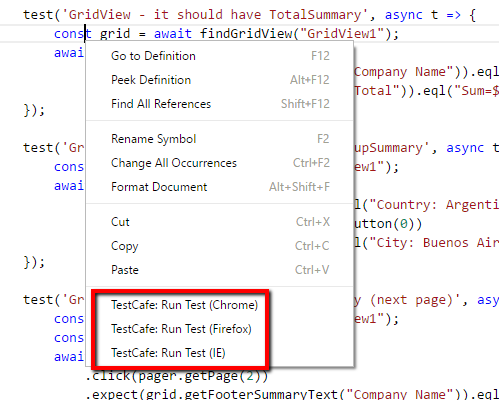
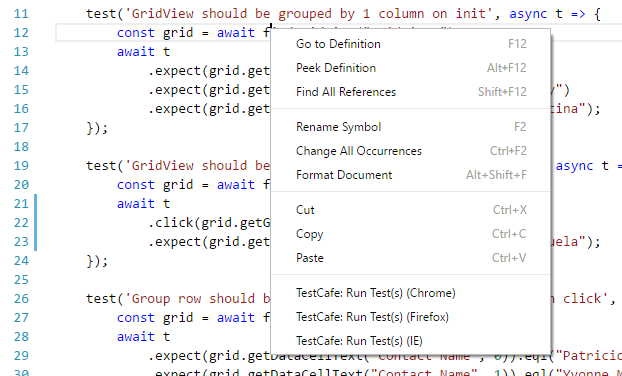
update descriptions

diff --git a/README.md b/README.md
@@ -1,19 +1,19 @@
-# TestCafe Runner for Visual Studio Code
-Allows to run TestCafe tests directly from VS Code via context menu or built-in commands. Test results will be shown in the `Debug Console` panel. The tests are running in the Debug mode, so the breakpoints will work as expected.
+# TestCafe Test Runner for Visual Studio Code
+Allows to run TestCafe tests directly from VS Code via context menu or built-in commands. Test results will be shown in the `Debug Console` panel. The tests are running in the Debug mode, so breakpoints will work as expected.
 
 ![Demo](images/screenshot.png)
 
 Built-in commands:
-* TestCafe: Run Test (Chrome)
-* TestCafe: Run Test (IE)
-* TestCafe: Run Test (Firefox)
+* TestCafe: Run Test(s) (Chrome)
+* TestCafe: Run Test(s) (IE)
+* TestCafe: Run Test(s) (Firefox)
 * TestCafe: Repeat Previous Test Run
 
 Current Limitations
 -----
 
 1. TestCafe should be installed as a local package
-2. VS Code Project folder should contain the `node_modules` folder with TestCafe
+2. A workspace folder should contain the `node_modules` directory
 3. Only .js test files are supported
 
 Sources

diff --git a/CHANGELOG.md b/CHANGELOG.md
@@ -3,6 +3,10 @@ All notable changes to the "testcafe-test-runner" extension will be documented i
 
 Check [Keep a Changelog](http://keepachangelog.com/) for recommendations on how to structure this file.
 
+## [0.0.3]
+- Run all tests in a file (via file context menu)
+- Run all tests in a fixture
+
 ## [0.0.2]
 - New command: TestCafe: Repeat Previous Test Run
 - Fixed error which occurs when extensions is not activated, but menus're already available
